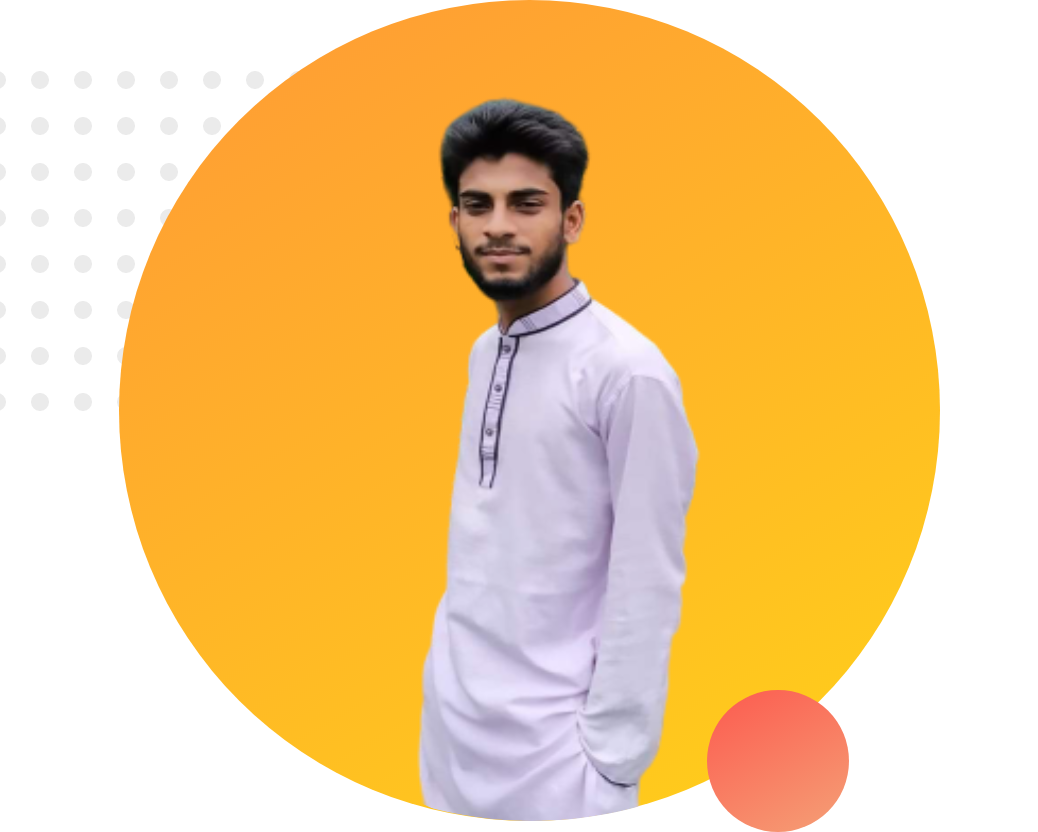
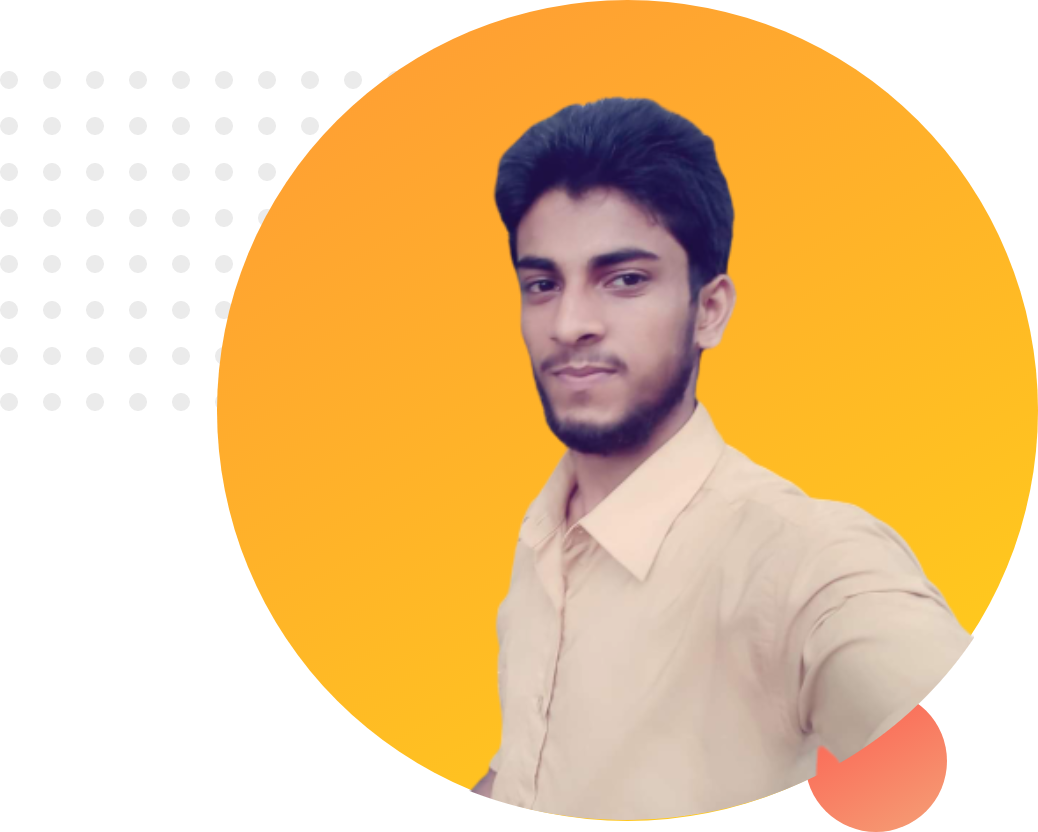
added top part

diff --git a/index.html b/index.html
@@ -1,0 +1,23 @@
+<!DOCTYPE html>
+<html lang="en">
+<head>
+    <meta charset="UTF-8">
+    <meta name="viewport" content="width=device-width, initial-scale=1.0">
+    <title>Shawon Web Developer</title>
+    <link href="https://fonts.googleapis.com/css2?family=Poppins&display=swap" rel="stylesheet">
+    <link rel="stylesheet" href="style.css">
+</head>
+<body>
+   <section>
+    <div class="half-width">
+        <h1>Wellcome to</h1>
+    <h1><span class="name-highlight">Shawon</span> Website</h1> 
+    <h3>World class professional web dev</h3>
+    <p>Hi, My name is Imtiaz Shawon. I am a Web Developer and . I have been doing freelancing for the last two years with Reputation. If you want to give me your important work, you can give it to me. Of course I will do your job as you like, You will definitely like my work! See Portfolio</p>
+    </div>
+   <div class="half-width">
+    <img src="images/profile.png" alt="">
+   </div>
+   </section>
+</body>
+</html>

diff --git a/style.css b/style.css
@@ -1,0 +1,16 @@
+body{
+    font-family: 'Poppins', sans-serif;
+}
+.name-highlight{
+    color: orange;
+}
+.half-width{
+    width: 40%;
+    float: left;
+    margin-left: 5%;
+    padding-left: 2%;
+}
+.half-width img{
+    width: 100%;
+}
+   
